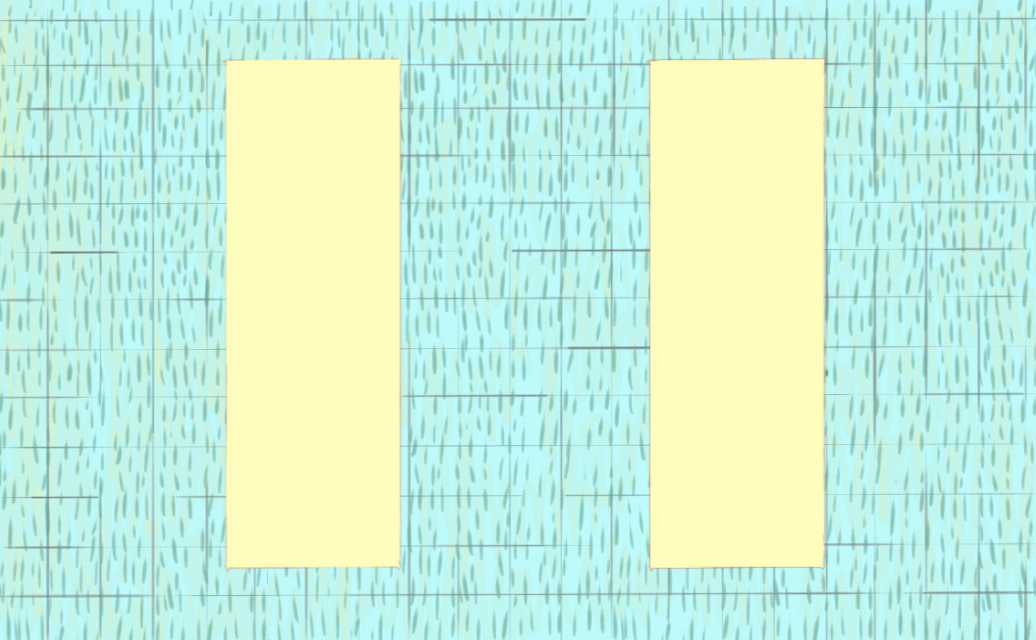
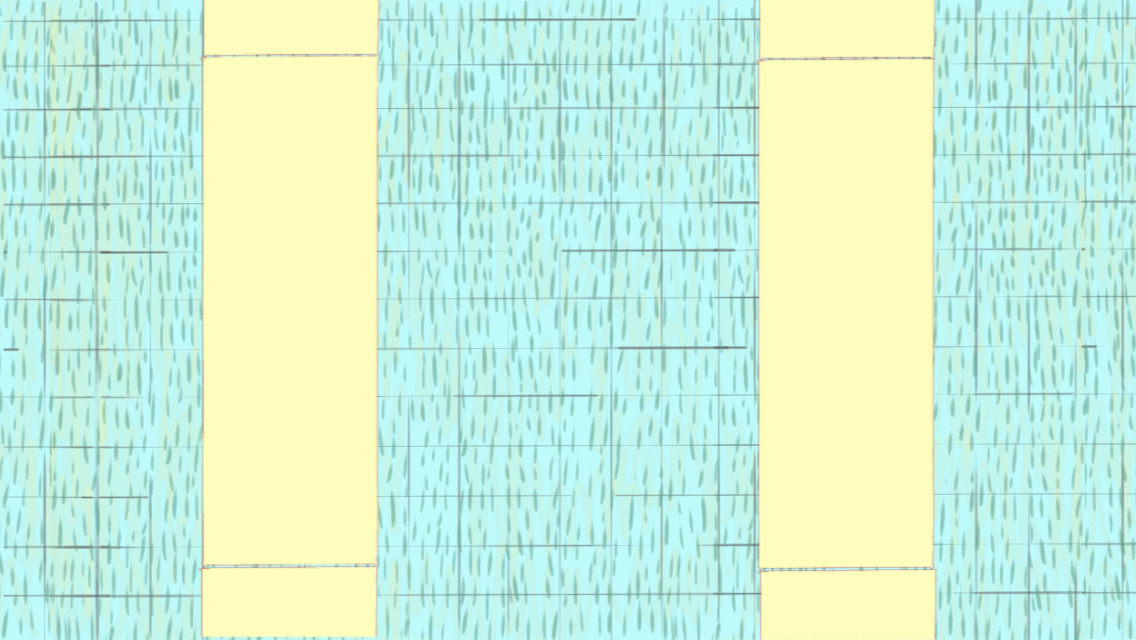
add mice

diff --git a/game.js b/game.js
@@ -15,6 +15,11 @@ var manifest = {
             "strip": "animations/board.png",
             "frames": 1,
             "msPerFrame": 100
+        },
+        "holder":{
+        	"strip": "animations/mouseSmallSide1.png",
+            "frames": 1,
+            "msPerFrame": 100
         }
 	}
 };
@@ -51,15 +56,27 @@ game.scenes.add("title", new Splat.Scene(canvas, function() {
 
 game.scenes.add("main", new Splat.Scene(canvas, function() {
 	// initialization
+
+	//declare images
 	var bgImage = game.animations.get("background");
+	var holderImage = game.animations.get("holder");
+	var holderImage2 =game.animations.get("holder").copy();
+	holderImage2.flipHorizontally();
+
+	//create entities
 	this.bg = new Splat.AnimatedEntity(0,0,canvas.width,canvas.height,bgImage,0,0);
-	this.upperbound = 100;
-	this.lowerbound = canvas.height - 100;
+
+	//define scene variables
+	this.upperbound = 70;
+	this.lowerbound = canvas.height - 70;
 	this.player1 = {
-		x:100,
+		x:0,
 		y:this.canvas.height/2 -10,
-		width:20,
-		height:20,
+		width:holderImage.width,
+		height:holderImage.height,
+		get sprite(){
+		 return new Splat.AnimatedEntity(this.x,this.y,this.width,this.height,holderImage,0,0);
+		}, 
 		arsenal:[{
 			weapon:"weapon1"
 		},
@@ -72,11 +89,13 @@ game.scenes.add("main", new Splat.Scene(canvas, function() {
 		selectedWeapon:0
 	};
 	this.player2 = {
-		x:canvas.width - 120,
-		y:this.canvas.height/2 -10,
-		width:20,
-		height:20,
-		arsenal:[{
+		x:canvas.width - holderImage2.width,
+		y:this.canvas.height/2 -holderImage2.height/2,
+		width:holderImage2.width,
+		height:holderImage2.height,
+		get sprite(){
+		 return new Splat.AnimatedEntity(this.x,this.y,this.width,this.height,holderImage2,0,0);
+		},arsenal:[{
 			weapon:"weapon1"
 		},
 		{
@@ -135,8 +154,10 @@ game.scenes.add("main", new Splat.Scene(canvas, function() {
 	this.bg.draw(context);
 
 	context.fillStyle = "#ff0000";
-	context.fillRect(this.player1.x, this.player1.y, this.player1.width, this.player1.height);
-	context.fillRect(this.player2.x, this.player2.y, this.player2.width, this.player2.height);
+	//context.fillRect(this.player1.x, this.player1.y, this.player1.width, this.player1.height);
+	//context.fillRect(this.player2.x, this.player2.y, this.player2.width, this.player2.height);
+	this.player1.sprite.draw(context);
+	this.player2.sprite.draw(context);
 	//context.font = "25px helvetica";
 	//centerText(context, "Blank SplatJS Project", 0, canvas.height / 2 - 13);
 }));
